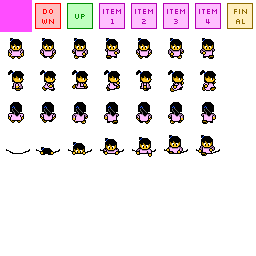
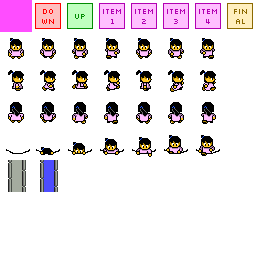
Added a water level meter.

Changed region(s): [[0.1562, 0.625, 0.25, 0.75], [0.0312, 0.625, 0.125, 0.75]]

diff --git a/src/hud_layer.go b/src/hud_layer.go
@@ -1,0 +1,77 @@
+package main
+
+import (
+	"../libs/twodee"
+	"time"
+)
+
+type HudLayer struct {
+	TileRenderer *twodee.TileRenderer
+	Bounds       twodee.Rectangle
+	App          *Application
+	game         *GameLayer
+}
+
+const (
+	HudHeight   = 20
+	HudWidth    = 20
+	HudXPadding = 0
+	HudYPadding = 1
+	EmptyTile   = 40
+	FullTile    = 41
+)
+
+func NewHudLayer(app *Application, game *GameLayer) (layer *HudLayer, err error) {
+	layer = &HudLayer{
+		App:    app,
+		Bounds: twodee.Rect(0, 0, HudWidth, HudHeight),
+		game:   game,
+	}
+	tilem := twodee.TileMetadata{
+		Path:       "assets/entities.fw.png",
+		PxPerUnit:  32,
+		TileWidth:  32,
+		TileHeight: 32,
+	}
+	if layer.TileRenderer, err = twodee.NewTileRenderer(layer.Bounds, app.WinBounds, tilem); err != nil {
+		return
+	}
+	return
+}
+
+func (l *HudLayer) Delete() {
+	if l.TileRenderer != nil {
+		l.TileRenderer.Delete()
+	}
+}
+
+func (l *HudLayer) Render() {
+	l.TileRenderer.Bind()
+	var (
+		tiles  = HudHeight - (2 * HudYPadding)
+		filled = int(l.game.Level.GetTotalWaterPercent() * float32(tiles))
+	)
+	for i := 0; i < tiles; i++ {
+		var (
+			x    = float32(HudWidth-HudXPadding) - 0.5
+			y    = float32(i+HudYPadding) + 0.5
+			tile = EmptyTile
+		)
+		if i < filled {
+			tile = FullTile
+		}
+		l.TileRenderer.Draw(tile, x, y, 0, false, false)
+	}
+	l.TileRenderer.Unbind()
+}
+
+func (l *HudLayer) HandleEvent(evt twodee.Event) bool {
+	return true
+}
+
+func (l *HudLayer) Update(elapsed time.Duration) {
+}
+
+func (l *HudLayer) Reset() (err error) {
+	return
+}

diff --git a/src/main.go b/src/main.go
@@ -32,6 +32,7 @@ func NewApplication() (app *Application, err error) {
 		counter           = twodee.NewCounter()
 		gameLayer         *GameLayer
 		menuLayer         *MenuLayer
+		hudLayer          *HudLayer
 		gameEventHandler  = twodee.NewGameEventHandler(NumGameEventTypes)
 		initiateCloseGame = false
 	)
@@ -61,10 +62,14 @@ func NewApplication() (app *Application, err error) {
 	if menuLayer, err = NewMenuLayer(winbounds, app); err != nil {
 		return
 	}
+	if hudLayer, err = NewHudLayer(app, gameLayer); err != nil {
+		return
+	}
 	if err = gameLayer.LoadLevel("assets/level00/"); err != nil {
 		return
 	}
 	layers.Push(gameLayer)
+	layers.Push(hudLayer)
 	layers.Push(menuLayer)
 	app.gameClosingObserverId = app.GameEventHandler.AddObserver(GameIsClosing, app.CloseGame)
 	return

diff --git a/src/level.go b/src/level.go
@@ -332,8 +332,12 @@ func (l *Level) Update(elapsed time.Duration) {
 	l.WaterAccumulation += elapsed
 }
 
+func (l *Level) GetTotalWaterPercent() float32 {
+	return float32(l.WaterAccumulation) / float32(LevelWaterThreshold)
+}
+
 func (l *Level) GetLayerWaterStatus(layer int32) LayerWaterStatus {
-	var percentFlooded = float32(l.WaterAccumulation) / float32(LevelWaterThreshold)
+	var percentFlooded = l.GetTotalWaterPercent()
 	if percentFlooded >= 1 {
 		return Flooded
 	}

diff --git a/src/game_layer.go b/src/game_layer.go
@@ -62,6 +62,12 @@ func (l *GameLayer) Delete() {
 	if l.Level != nil {
 		l.Level.Delete()
 	}
+	if l.TileRenderer != nil {
+		l.TileRenderer.Delete()
+	}
+	if l.BatchRenderer != nil {
+		l.BatchRenderer.Delete()
+	}
 }
 
 func (l *GameLayer) Render() {
